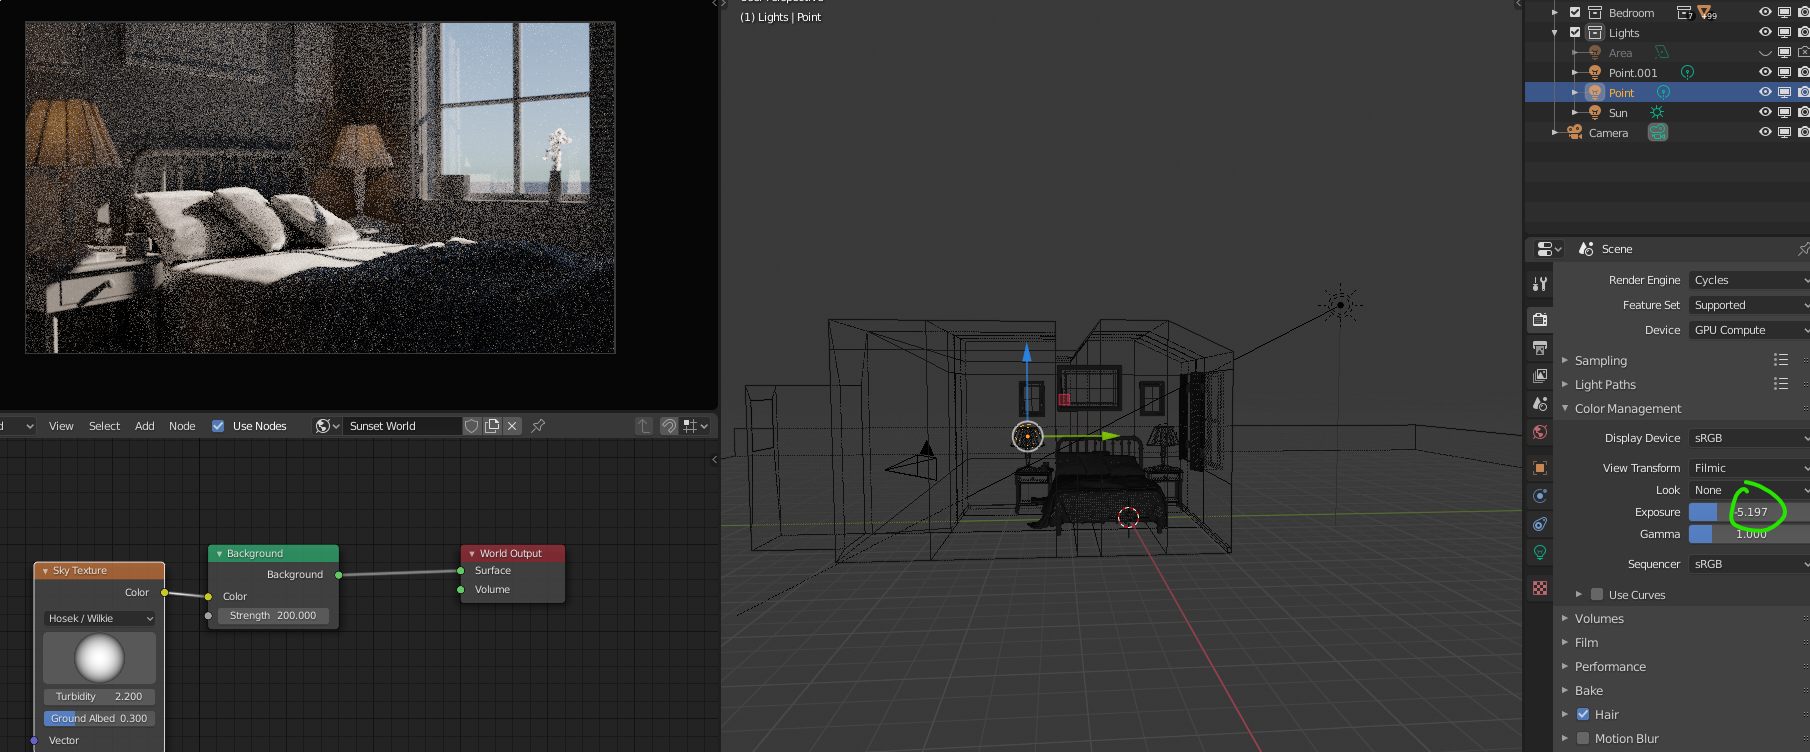
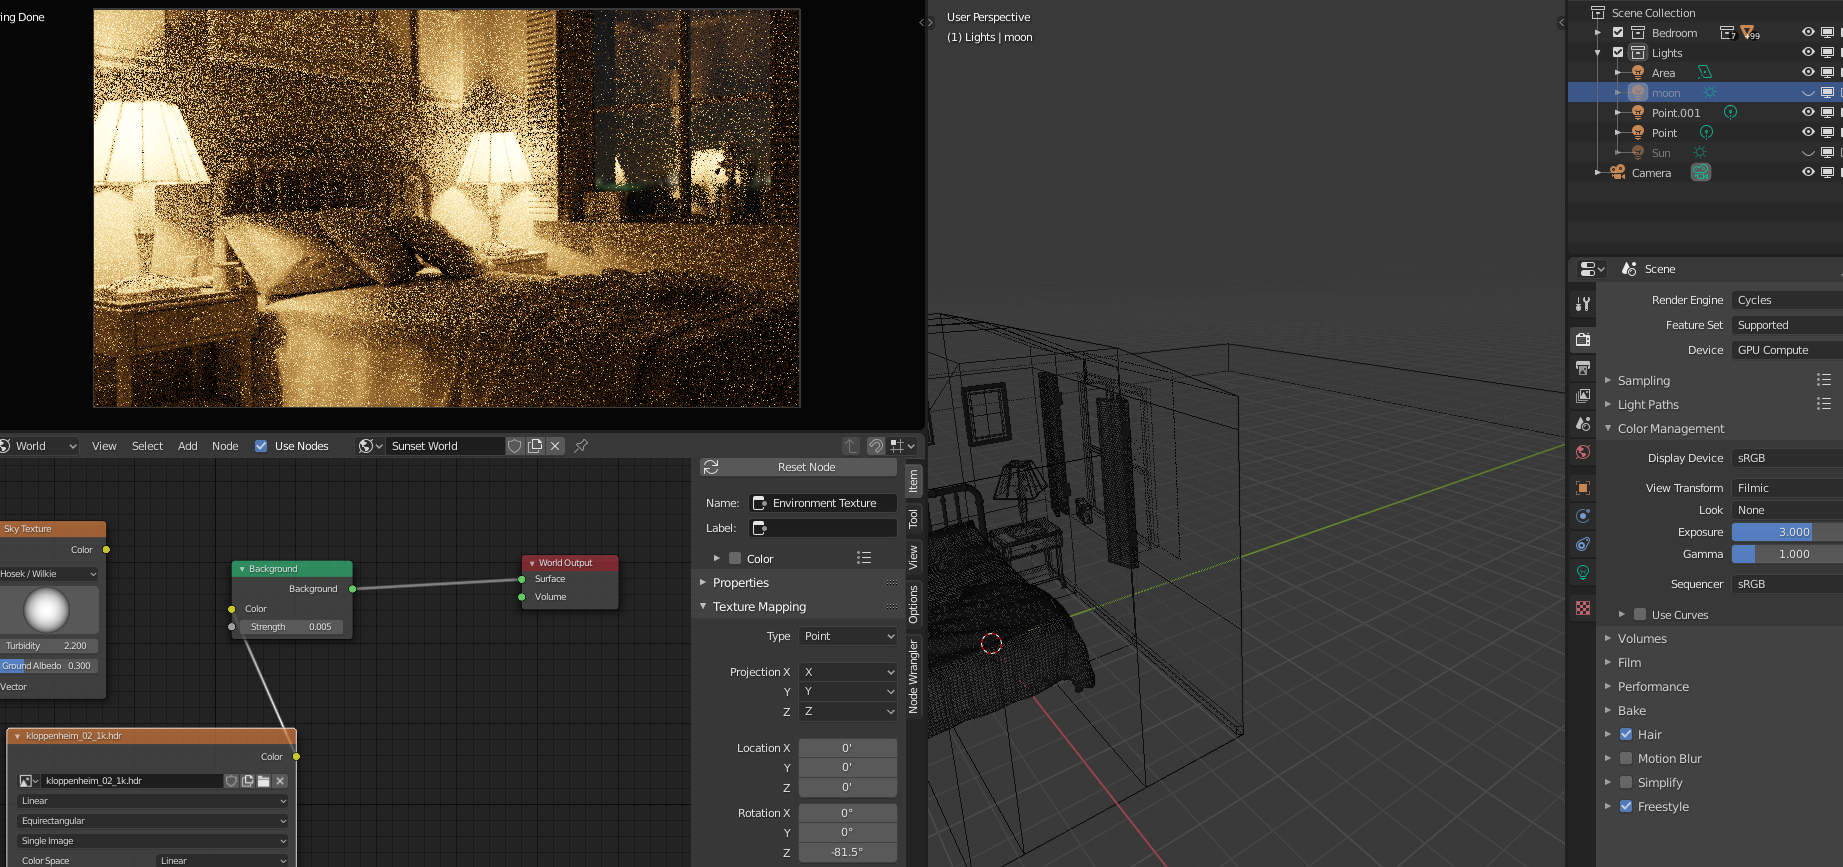
GitBook: [#150] No subject

diff --git a/blender-1/blender/lighting/lighting-a-bedroom-with-cycles.md b/blender-1/blender/lighting/lighting-a-bedroom-with-cycles.md
@@ -28,7 +28,7 @@ Since the sun lamp (and a bit of the sky texture) is the only light source, it d
 
 After choosing one of those option, you could brighten up the room using the world tab > ambient occlusion and change distance to something smaller than the size of the room like 10 feet. You can change the actor but that leaves everything a bit grey so instead create an area light outside the window. This adds extra light coming in though outside.
 
-![](<../../../.gitbook/assets/image (146).png>)
+![](<../../../.gitbook/assets/image (146) (1).png>)
 
 Angle the area lamp down so it mimics sun light. Set strength to 250w with a color like the sky (pale blue).
 
@@ -44,7 +44,7 @@ Add the first one with size .13 feet. Add a warm color. With power of 7w.
 
 For the second one, hold down alt + D to create a "linked duplicate" which means whatever values you change for the first lamp point will also affect the second one.
 
-![](<../../../.gitbook/assets/image (145).png>)
+![](<../../../.gitbook/assets/image (145) (1).png>)
 
 Now with more than 1 type of light in the scene, it rally matters on the differences of the types of lights. The sun is not bight enough compared to the lamps. If you change the sun angle value in the settings to 5 or 10 degrees it would make it believable.
 
@@ -73,7 +73,7 @@ If it looks too overexposed, render > color management decrease exposure to abou
 
 You can lower exposure for sunlight to make the room darker or increase exposure for the lamps.
 
-&#x20;![](<../../../.gitbook/assets/image (140).png>)
+&#x20;![](<../../../.gitbook/assets/image (140) (1).png>)
 
 Yo can hit F11 to have the render window open and choose a new slot before hitting F12 to render the image. Don't compare images by changing slots because the exposure value will affect the previous slot too. Best to save the image and compare after.
 
@@ -111,7 +111,23 @@ For a dark scene, change the HDRI with a dark sky. Rest the Exposure by clicking
 
 ![](<../../../.gitbook/assets/image (141).png>)
 
-Disconnect the background node from the world output so the render is completely black.
+Disconnect the background node from the world output so the render is completely black. Don't forget to uncheck ambient occlusion from the world view settings.
 
+Now to add a sunlight to the strength of what the moon should be so we can set the HDRI to the correct strength. Copy the sun lamp in the scene with Shift + D and rename it as moon. Change the strength of the mon light in its settings to .001. The scene should still be in darkness. Turn up the exposure to its max (10) to see how the light affects the scene.
 
+![](<../../../.gitbook/assets/image (146).png>)
+
+Then hide the moon, and plug the background node back into the world output. Change the background node strength to .005 (had to play with this to find this as the best value).
+
+Then turn on the lamp lights and move the exposure down to 3. You can also change the rotation of the HDRI again in the node editor.
+
+![](<../../../.gitbook/assets/image (140).png>)
+
+Since there's a noticeably big shaded error above the bed, we may wan to fix that since it's the center of the room. Hit Shift + D on the one of the lamp lights and move it to the middle of the ceiling. If it's too low, it will be reflected in the window which would looks strange. Change the exposure to 2.
+
+Hide all lamps in the room (lamps and bedroom one) and add another point light copy in the hallway. Change power to 15 and temperature to 3500 so it's more of a LED type light.
+
+![](<../../../.gitbook/assets/image (145).png>)
+
+Turn the other 3 light sources on and render it out.
 

diff --git a/blender-1/blender/lighting/volumetric-lighting.md b/blender-1/blender/lighting/volumetric-lighting.md
@@ -32,7 +32,7 @@ Using a cube, cover most of the room and after setting a material, disconnect th
 ![](<../../../.gitbook/assets/image (139) (1).png>)
 
 After, go to volume > volume scatter below it. Set density to 0.1.\
-![](<../../../.gitbook/assets/image (145) (1).png>)
+![](<../../../.gitbook/assets/image (145) (1) (1).png>)
 
 Since we don't want to see the mesh used as a volume scatter in our viewport, set the object settings to viewport display > display as "wire".\
 ![](<../../../.gitbook/assets/image (142).png>)

diff --git a/blender-1/blender/lighting.md b/blender-1/blender/lighting.md
@@ -11,7 +11,7 @@
 
 Click the dot next to the world color to select a texture to use instead. Choose the remove option to return to the default state.
 
-![](<../../.gitbook/assets/image (140) (1) (1).png>)![](<../../.gitbook/assets/image (141) (1) (1) (1) (1) (1).png>)
+![](<../../.gitbook/assets/image (140) (1) (1) (1).png>)![](<../../.gitbook/assets/image (141) (1) (1) (1) (1) (1).png>)
 
 The ball can be clicked and dragged to move the sun's point.
 

diff --git a/blender-1/blender/lighting/lighting-with-realistic-values-and-colors.md b/blender-1/blender/lighting/lighting-with-realistic-values-and-colors.md
@@ -2,7 +2,7 @@
 
 Use Exposure setting instead of changing wattage of lamps to change power of the lights.
 
-![](<../../../.gitbook/assets/image (140) (1).png>)
+![](<../../../.gitbook/assets/image (140) (1) (1).png>)
 
 You can change the color temperature for a light to make it more realistic - similar to changing node values to better reflect a material like gold or jeans. A incandescent bulb would be about 2700 for temperature.
 
